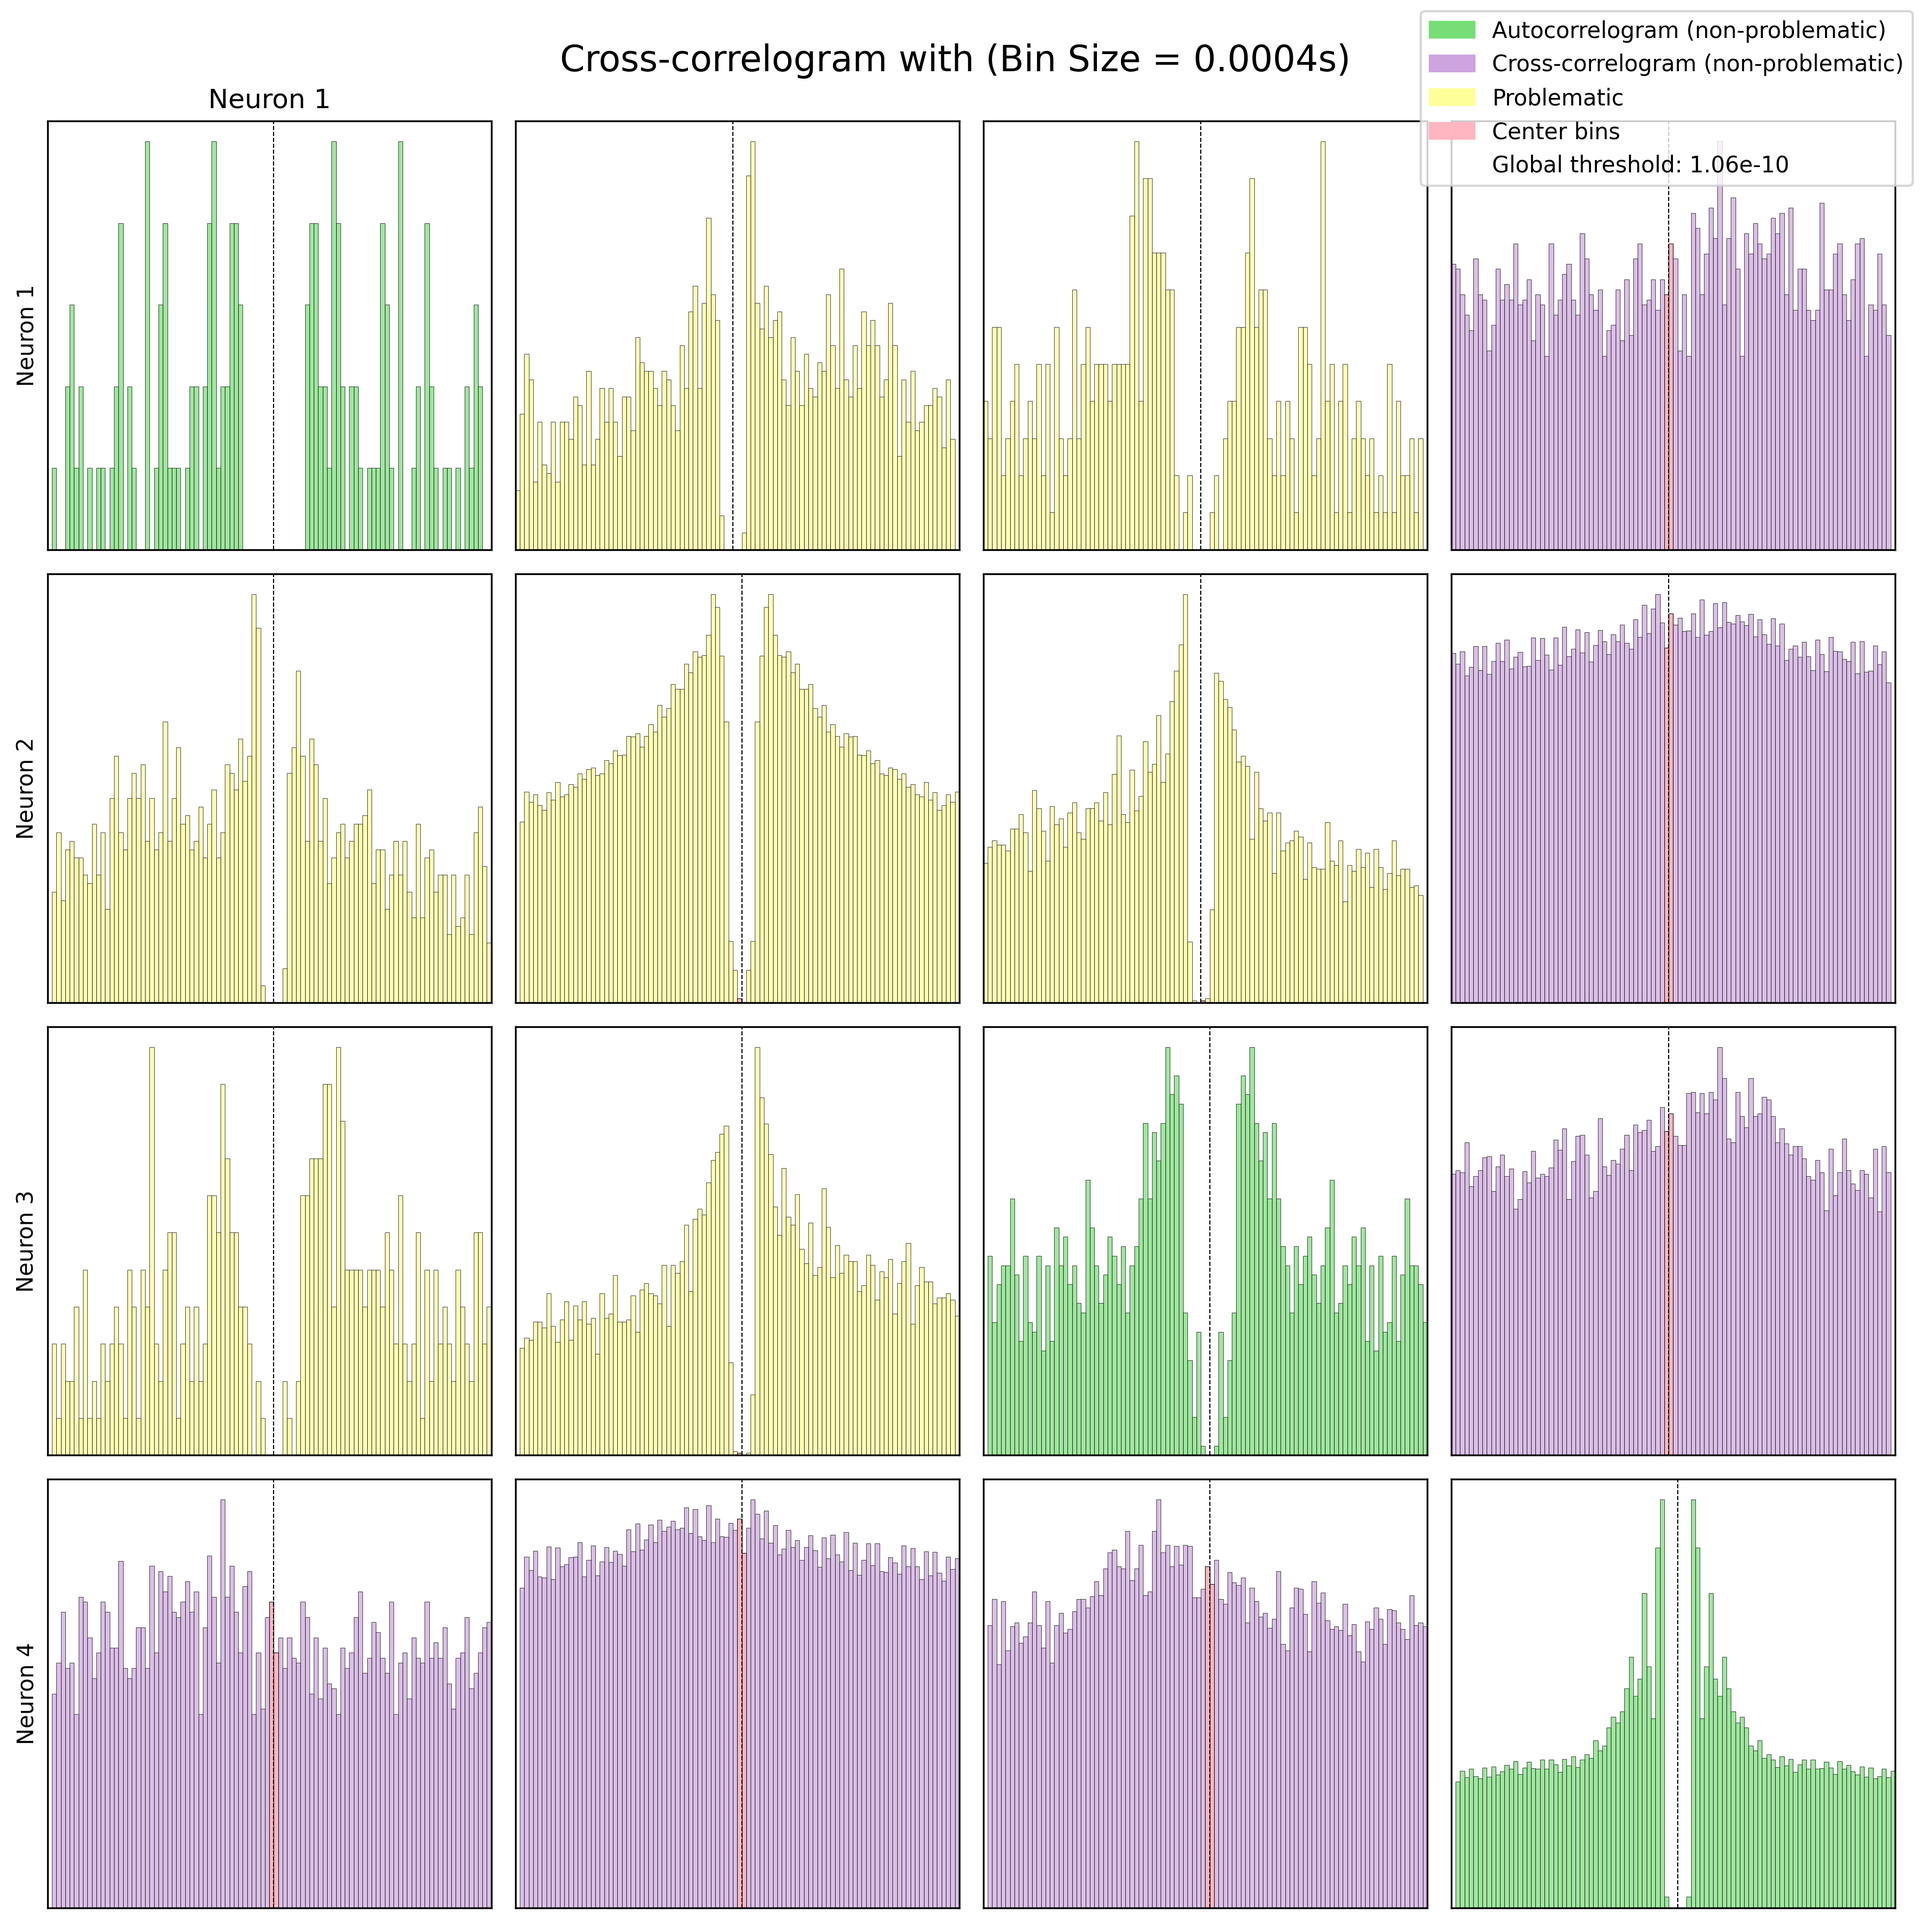
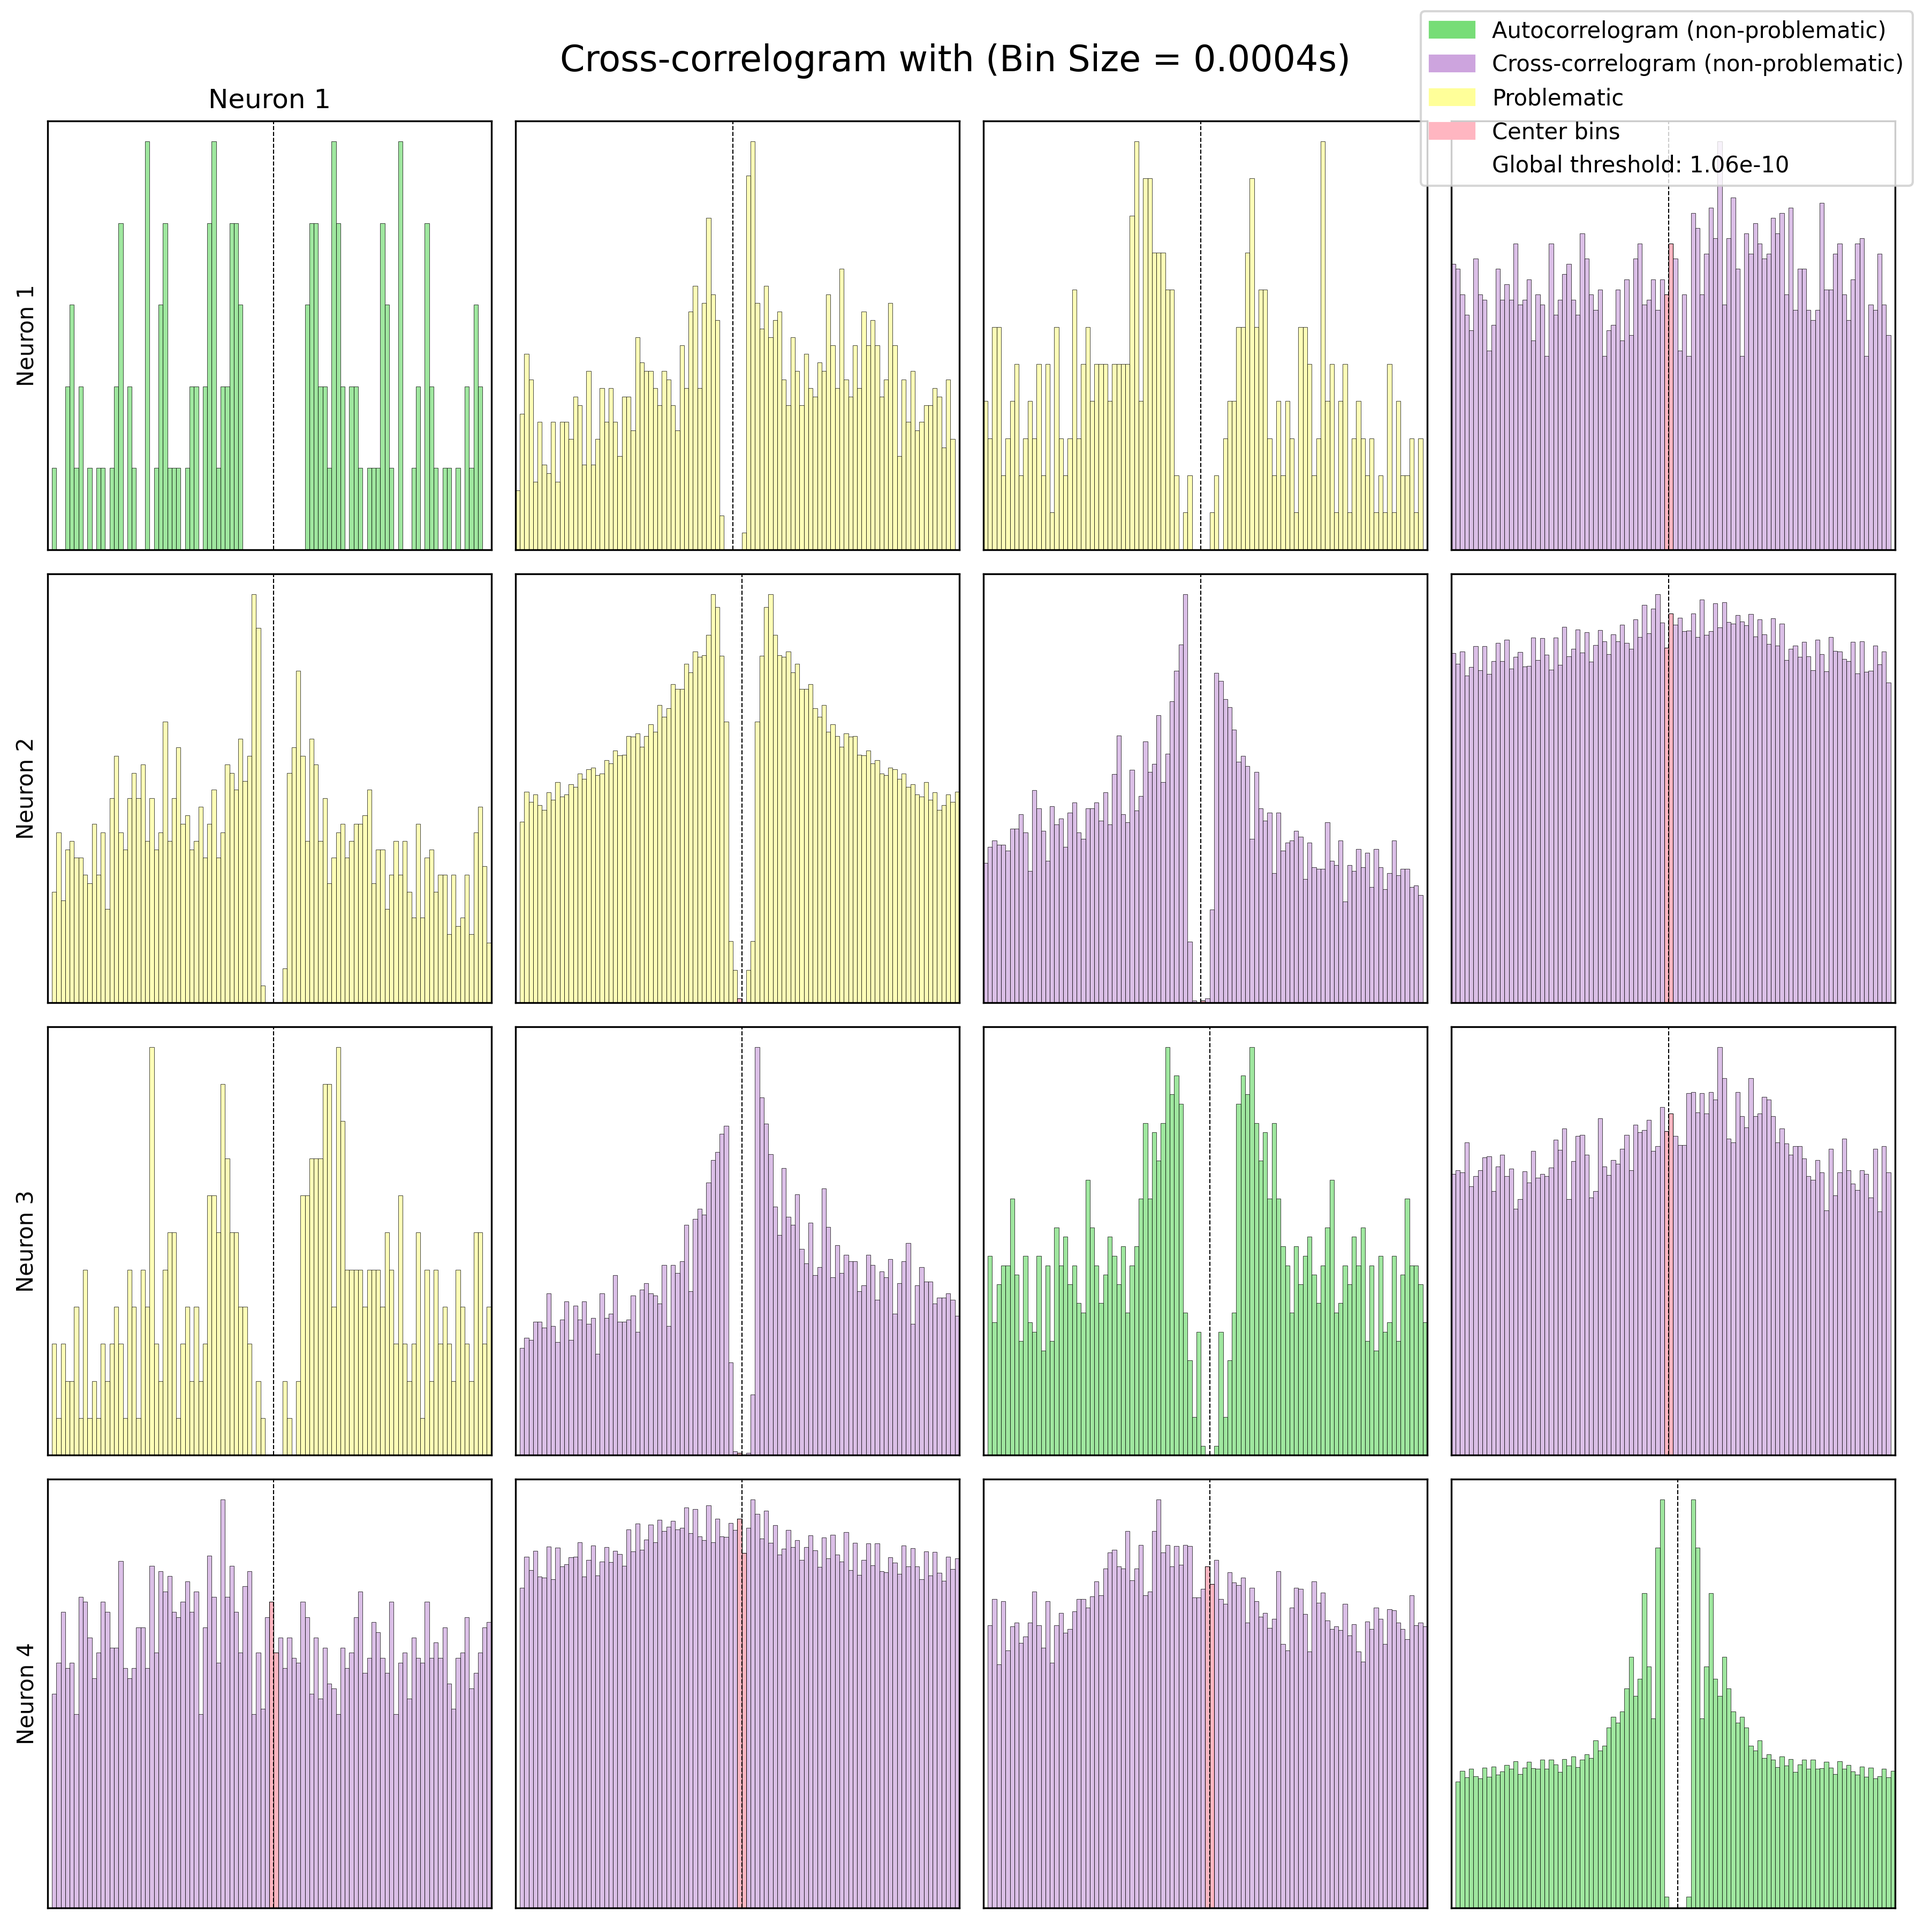
adapted criterion for cross-correlgrams to be relative to each correlogram instead of global threshold

Changed region(s): [[0.2493, 0.5609, 0.4986, 0.7791], [0.4986, 0.3428, 0.7479, 0.5298]]

diff --git a/functions/plot_correlogram_matrix.py b/functions/plot_correlogram_matrix.py
@@ -8,8 +8,8 @@ from tqdm.auto import tqdm
 import sys
 
 # Definition of problematic correlograms:
-# for autocorrelograms: if either center bin exceeds global_threshold, or if the global peak is immediately outside the center bins.
-# for cross-correlograms: if both center bins are below global_threshold.
+# for autocorrelograms: if either center bin exceeds global_threshold (mean + 2 stds of all correlogram center bins), or if the global peak is immediately outside the center bins.
+# for cross-correlograms: if both center bins are the minima for the correlogram
 
 def plot_correlogram_matrix(neurons_data, binsize, dataset_name, limit=0.02, time_window=None, save_folder=None, store_data=True):
     # Removed the global_threshold argument; it will be computed from the data.
@@ -73,18 +73,7 @@ def plot_correlogram_matrix(neurons_data, binsize, dataset_name, limit=0.02, tim
                 "center_left": center_left,
                 "center_right": center_right
             }
-    
-    # Compute global maximum count across all correlograms
-    global_max_count = 0
-    for i in range(num_neurons):
-        for j in range(i+1):
-            if grid_data[i][j] is not None:
-                current_max = grid_data[i][j]["counts"].max()
-                if current_max > global_max_count:
-                    global_max_count = current_max
-    print(f"Global maximum count = {global_max_count}")
 
-    
     # Compute the global threshold: mean of all center bin values of the autocorrelograms plus their standard deviation.
     all_center_vals = np.array(all_center_vals)
     global_threshold = all_center_vals.mean() + 2 * all_center_vals.std()
@@ -120,9 +109,9 @@ def plot_correlogram_matrix(neurons_data, binsize, dataset_name, limit=0.02, tim
                     print(f"Neuron {i+1} autocorrelogram is problematic because: {', '.join(reasons)}")
                     problematic_neuron_indices.add(i)
             else:       # cross-correlogram: problematic if both center bins are below threshold.
-                is_problematic = (counts[center_left] <= global_threshold and counts[center_right] <= global_threshold)
+                is_problematic = (counts[center_left] == counts.min() and counts[center_right] == counts.min())
                 if is_problematic:
-                    print(f"Neuron {i+1} vs Neuron {j+1} cross-correlogram is problematic because both center bins are below global_threshold")
+                    print(f"Neuron {i+1} vs Neuron {j+1} cross-correlogram is problematic because both center bins are the minimum.")
                     problematic_neuron_indices.add(i)
                     problematic_neuron_indices.add(j)
                     
@@ -145,17 +134,8 @@ def plot_correlogram_matrix(neurons_data, binsize, dataset_name, limit=0.02, tim
                    counts[center_left:center_left+1],
                    width=np.diff(bins)[center_left:center_left+1],
                    align='center', color=pink_color, alpha=1, edgecolor='k', linewidth=0.25)
-            # Annotation above left center bin:
-            ax.text(bin_centers[center_left],
-                    counts[center_left] + 0.05 * global_max_count, # display count above the bar
-                    f"{counts[center_left]:.0f}",
-                    ha='center', va='bottom', fontsize=8, color='black')
             
             # Annotation above right center bin:
-            ax.text(bin_centers[center_right],
-                    counts[center_right] + 0.05 * global_max_count,
-                    f"{counts[center_right]:.0f}",
-                    ha='center', va='bottom', fontsize=8, color='black')
             ax.bar(bin_centers[center_right:center_right+1],
                    counts[center_right:center_right+1],
                    width=np.diff(bins)[center_right:center_right+1],

diff --git a/finalbsa.py b/finalbsa.py
@@ -92,7 +92,8 @@ Now we know we have 27 neurons recorded for ctr rat 1, 4 for ctr rat 2, 13 for e
 =================================================================================================================================================================================
 Notes on process
 - first did 0-tolerance plotting, almost all neurons would have to be excluded
-- thought about noise, distant neurons affecting the recording etc. -> decided to say that 
+- thought about noise, distant neurons affecting the recording etc. -> decided to say that mean + 2 stds of central bins of autocorrelogram are the threshold for autocorrelograms
+and for cross-correlograms we check whether the central bins are the minima within that correlogram. if they are, the correlogram is considered to be problematic
 
 """
 # Bin sizes dictionary
